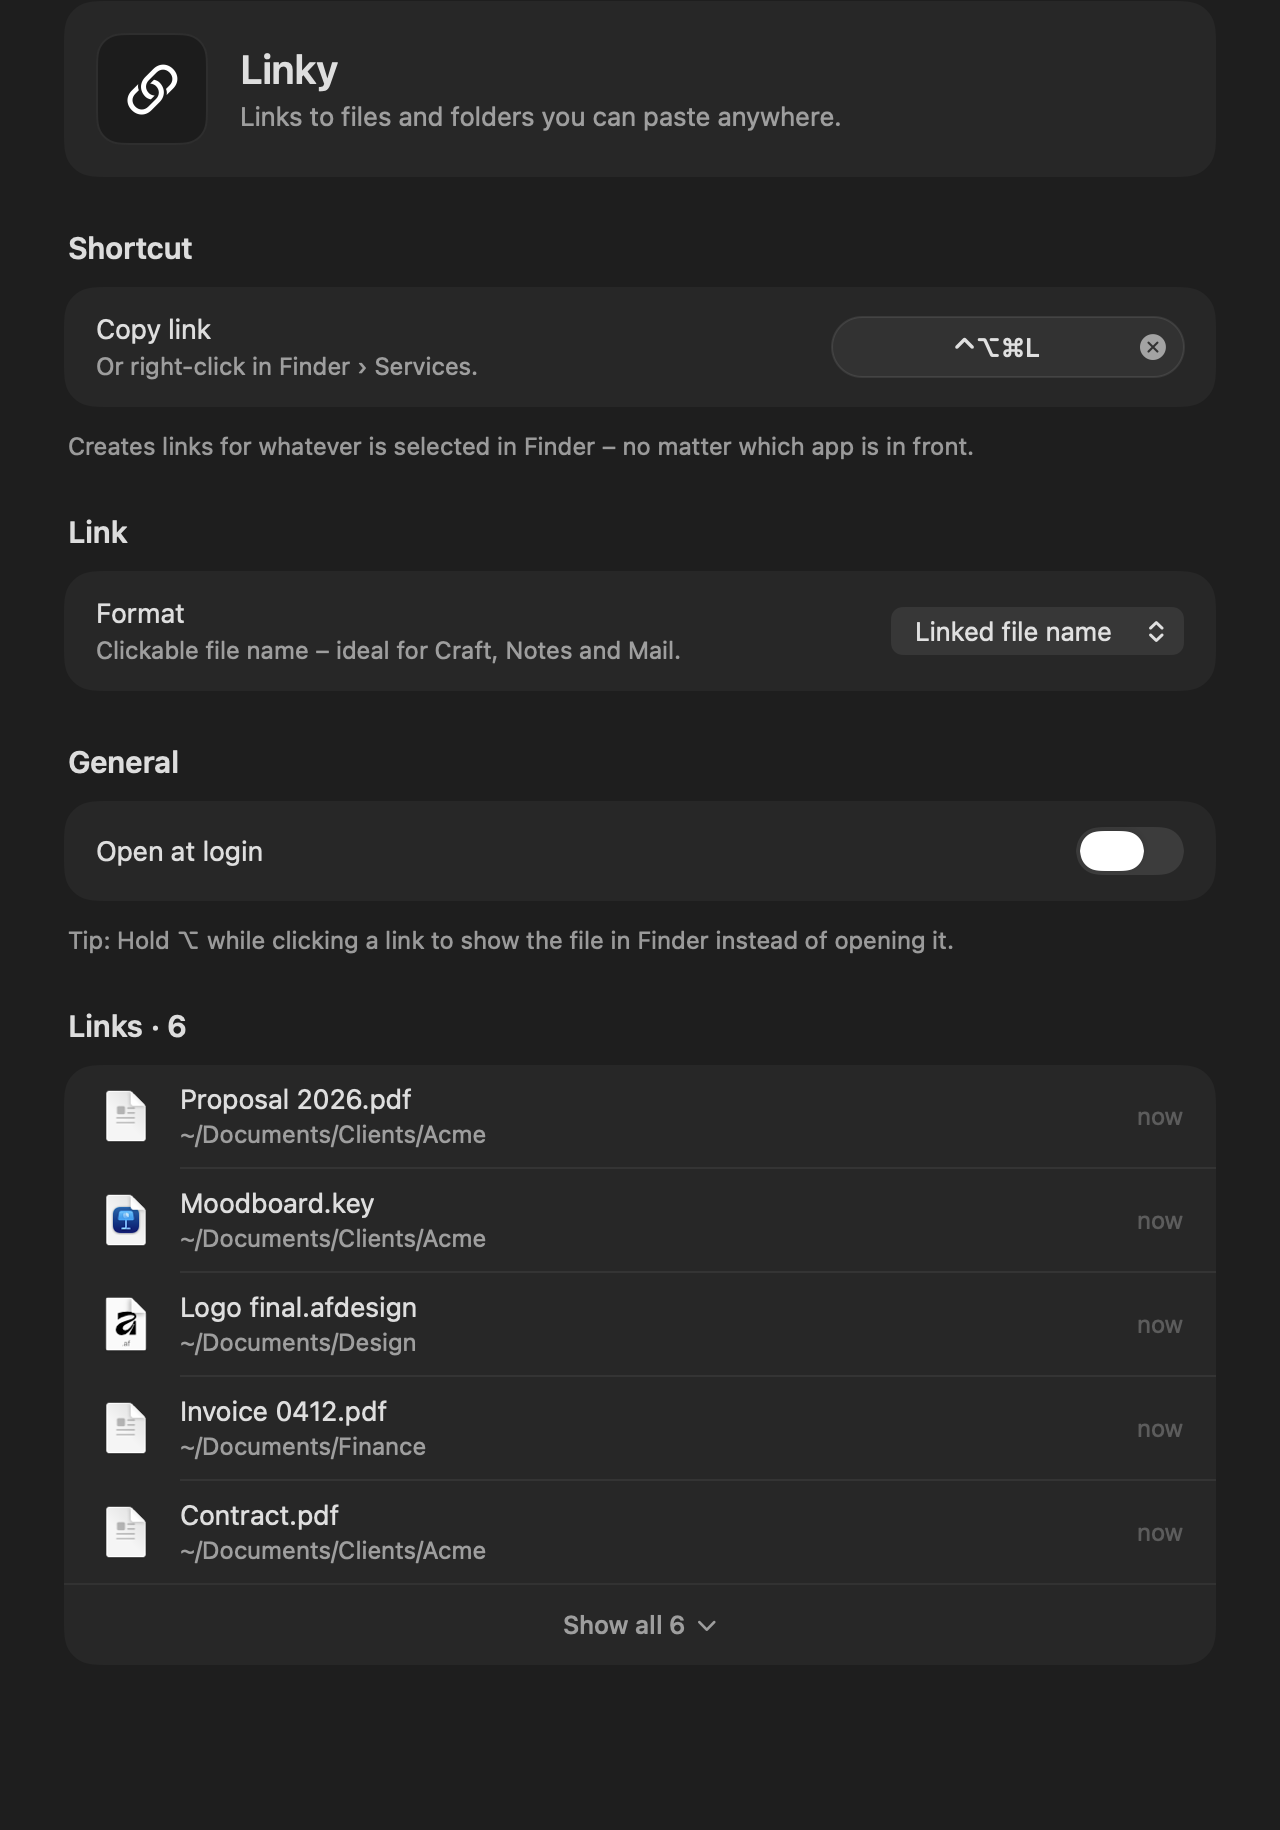
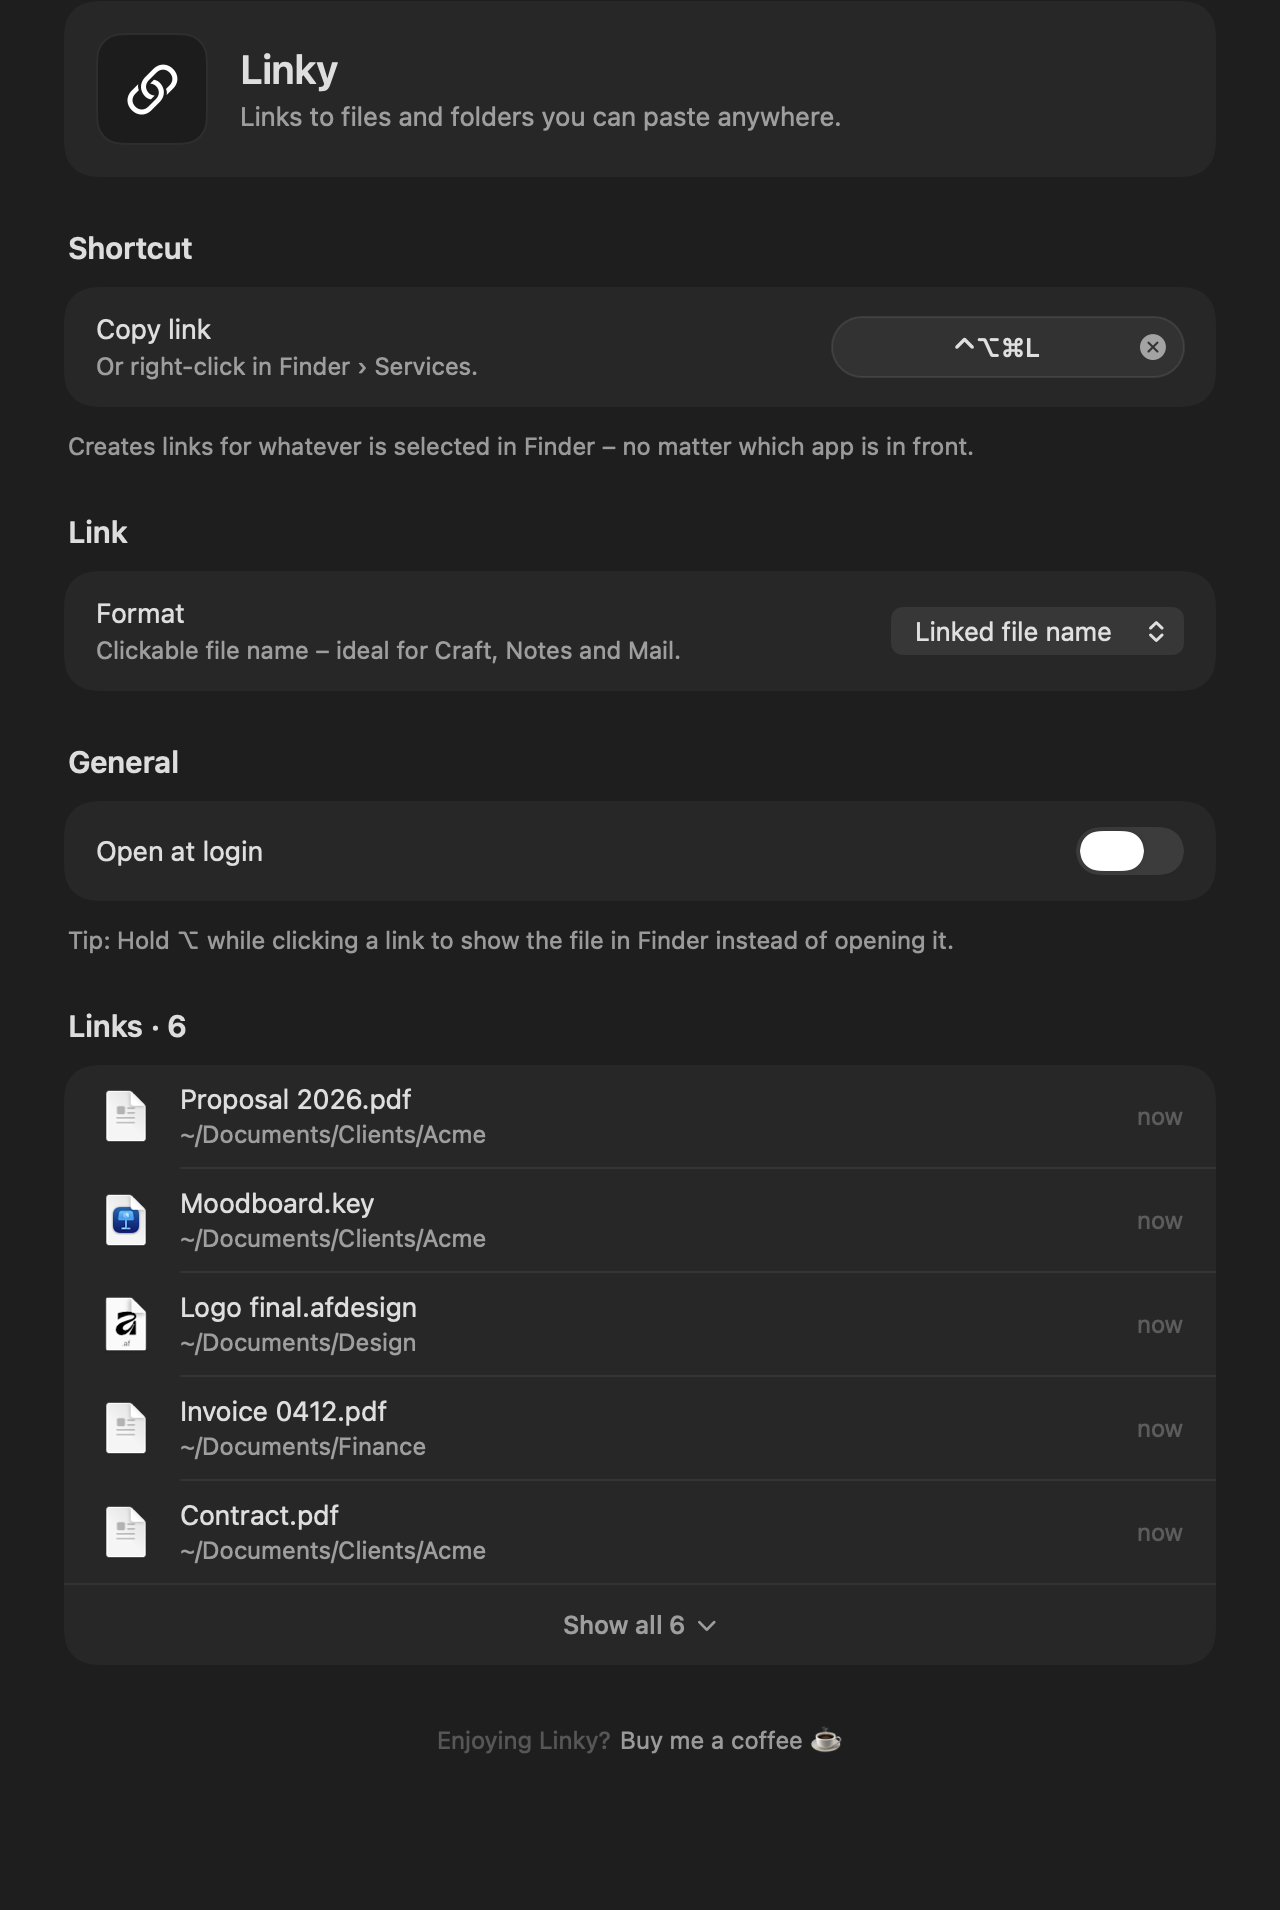
Linky 1.1: add a quiet 'Buy me a coffee' link
Small support line at the bottom of Settings, in the README and as a
GitHub funding button. Also shows ~ for paths in the home folder.

diff --git a/Sources/Linky/SettingsView.swift b/Sources/Linky/SettingsView.swift
@@ -59,6 +59,8 @@ struct SettingsView: View {
 
                     LinksSection(store: LinkStore.shared, expanded: $nav.linksExpanded)
                         .id("links")
+
+                    SupportLine()
                 }
                 .padding(.horizontal, 32)
                 .padding(.top, 48)
@@ -75,6 +77,28 @@ struct SettingsView: View {
         }
         .frame(width: Self.size.width, height: Self.size.height)
         .background(Color(nsColor: .textBackgroundColor))
+    }
+}
+
+// MARK: - Support
+
+private struct SupportLine: View {
+    @State private var hovering = false
+
+    var body: some View {
+        HStack(spacing: 4) {
+            Text("Enjoying Linky?")
+                .foregroundStyle(.tertiary)
+            Link(destination: Linky.supportURL) {
+                Text("Buy me a coffee ☕")
+                    .underline(hovering)
+            }
+            .foregroundStyle(.secondary)
+            .onHover { hovering = $0 }
+        }
+        .font(.system(size: 12))
+        .frame(maxWidth: .infinity)
+        .padding(.top, 4)
     }
 }
 

diff --git a/Sources/Linky/Linky.swift b/Sources/Linky/Linky.swift
@@ -4,6 +4,7 @@ import AppKit
 @MainActor
 enum Linky {
     static let scheme = "linky"
+    static let supportURL = URL(string: "https://buymeacoffee.com/trugschluss")!
 
     // MARK: Copy
 

diff --git a/README.md b/README.md
@@ -10,7 +10,8 @@
 </p>
 
 <p align="center">
-  <a href="../../releases/latest"><b>Download Linky</b></a> · macOS 26 or later · free
+  <a href="../../releases/latest"><b>Download Linky</b></a> · macOS 26 or later · free<br>
+  <sub>Enjoying it? <a href="https://buymeacoffee.com/trugschluss">Buy me a coffee ☕</a></sub>
 </p>
 
 ---
@@ -58,6 +59,10 @@ Requires Xcode / Swift 6.2 or later.
 ./scripts/build.sh --install  # also installs to /Applications and starts it
 ./scripts/build.sh --zip      # also creates build/Linky.zip for a release
 ```
+
+## Support
+
+Linky is free and stays free. If it saves you a few clicks every day, you can [buy me a coffee ☕](https://buymeacoffee.com/trugschluss) – thank you!
 
 ## License
 
